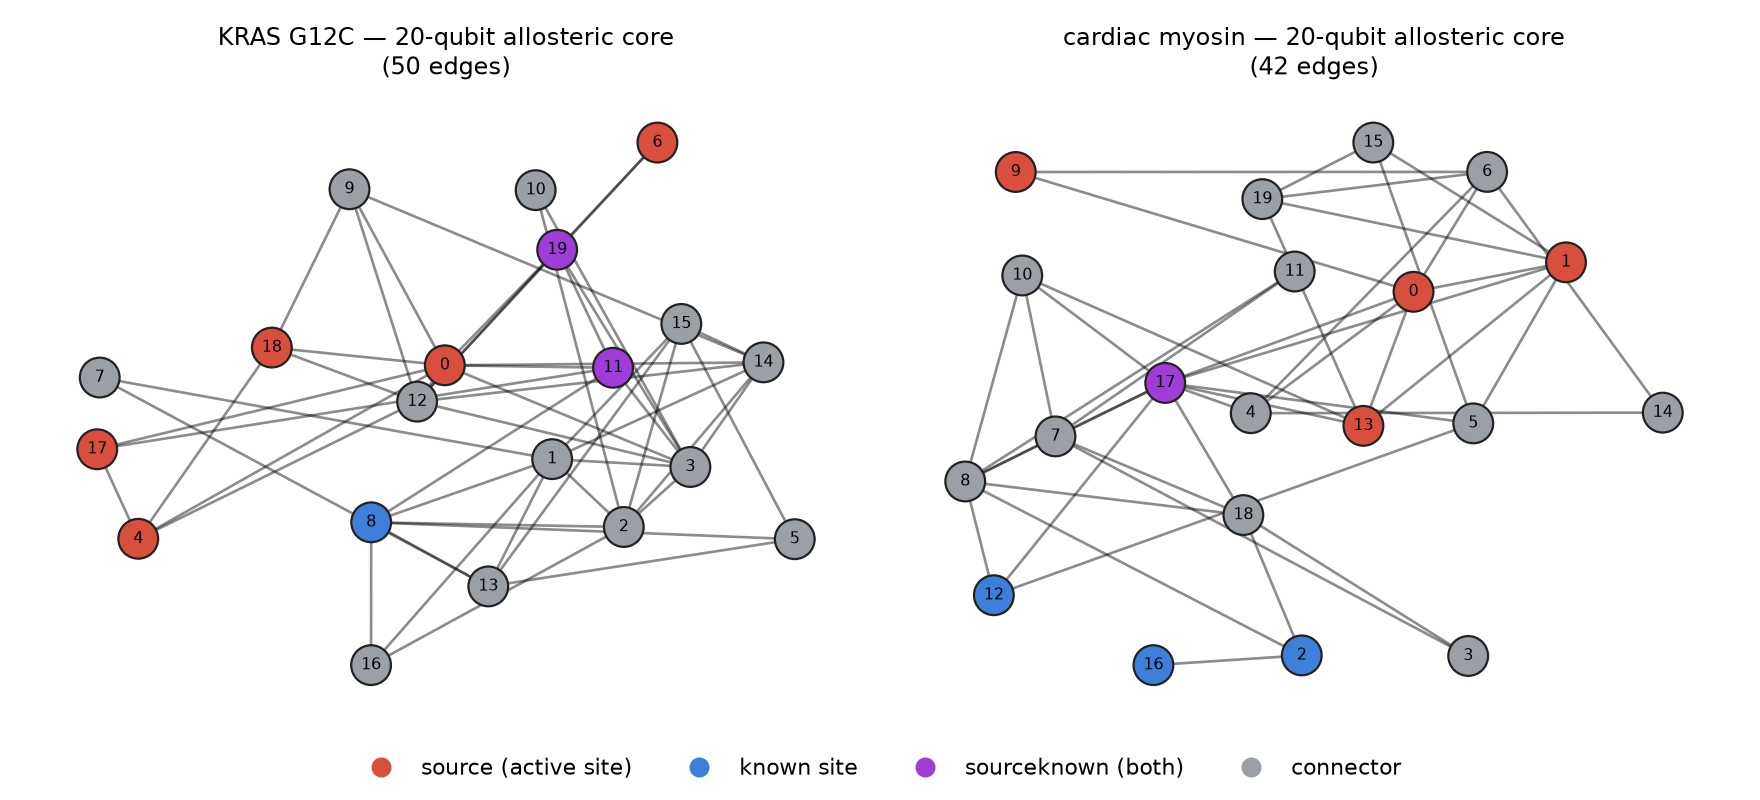
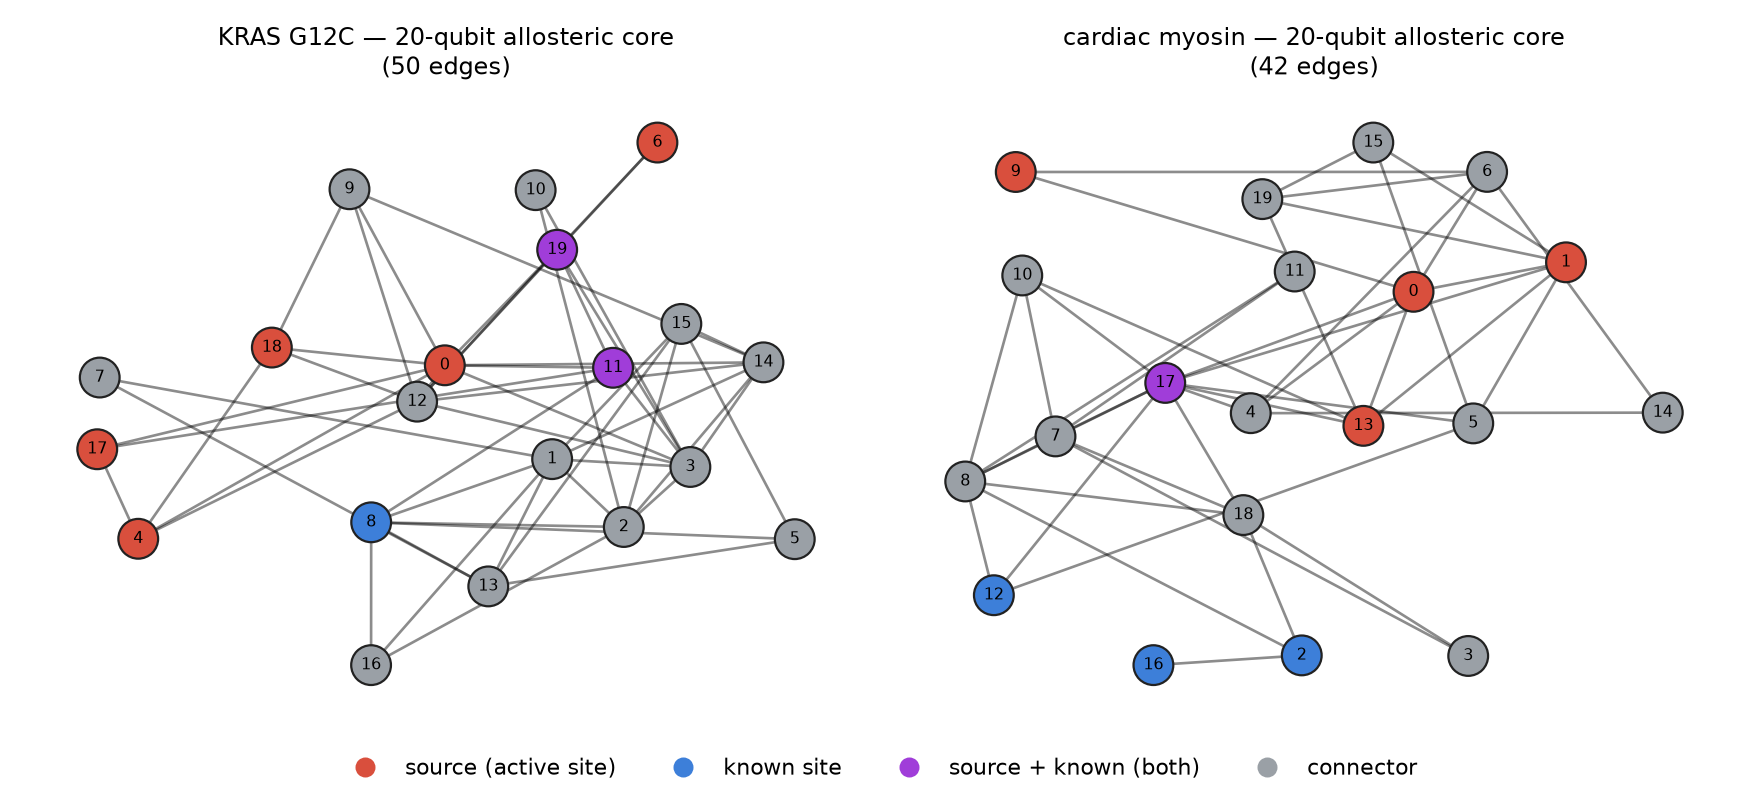
quantum page: verifiable receipt links + disclosure-consistency pass
Every job ID in the receipts table now deep-links to its committed raw
engine response on GitHub - the file itself carries the ID, so the link
is the verification. A "how to verify" disclosure shows the auth-gated
jobs/status endpoint with a copy button (reuses the site copy-btn
pattern) instead of linking a URL that would 401 for visitors.

Findings split headline (3) from technical internals (3) behind a
details fold, matching the site progressive-disclosure discipline.
Widget readout note gets aria-live for assistive tech; fig1 legend
label fixed ("source + known" not raw "sourceknown" token).

Generated with [Devin](https://devin.ai)

Changed region(s): [[0.1875, 0.9375, 0.8125, 0.9688]]

diff --git a/frontend/observatory/templates/quantum.html b/frontend/observatory/templates/quantum.html
@@ -80,7 +80,7 @@
             <span class="q-readout-label">edge agreement</span>
             <span class="q-readout-val" id="q-readout-agree">—</span>
           </div>
-          <div class="q-readout-row q-readout-note" id="q-readout-note">
+          <div class="q-readout-row q-readout-note" id="q-readout-note" aria-live="polite">
             real topology, ideal baseline
           </div>
         </div>
@@ -100,6 +100,14 @@
       <li>{{ f }}</li>
       {% endfor %}
     </ol>
+    <details class="q-details">
+      <summary>Technical detail — what the engine actually prepared</summary>
+      <ol class="q-findings q-findings-detail" start="4">
+        {% for f in detail_findings %}
+        <li>{{ f }}</li>
+        {% endfor %}
+      </ol>
+    </details>
     <figure class="q-fig">
       <img src="{{ root_prefix }}quantum/figs/fig4_real_vs_control.png"
            alt="Bar charts comparing edge correlation magnitude and edge agreement between real protein graphs and a random control, on emulator vs ibm_fez" loading="lazy" decoding="async">
@@ -128,8 +136,9 @@
   <section class="panel">
     <header class="panel-header"><h2>Receipts</h2></header>
     <p class="q-text">Every claim on this page resolves to a submitted job.
-      Moth job IDs query the engine's result endpoint; IBM job IDs are the
-      hardware execution receipts.</p>
+      Each job ID links to the raw engine response committed in the
+      repository — the file itself carries the ID, so the link is the
+      verification.</p>
     <div class="q-receipts-wrap">
       <table class="q-receipts">
         <thead>
@@ -139,22 +148,30 @@
           {% for t in target_rows %}
           <tr>
             <td>{{ t.name }}</td>
-            <td><code>{{ t.moth_qpu }}</code></td>
-            <td><code>{{ t.moth_emu }}</code></td>
-            <td><code>{{ t.ibm_job_id }}</code></td>
+            <td><a class="q-job-link" href="{{ t.qpu_href }}" target="_blank" rel="noopener"><code>{{ t.moth_qpu }}</code></a></td>
+            <td><a class="q-job-link" href="{{ t.emu_href }}" target="_blank" rel="noopener"><code>{{ t.moth_emu }}</code></a></td>
+            <td><a class="q-job-link" href="{{ t.qpu_href }}" target="_blank" rel="noopener"><code>{{ t.ibm_job_id }}</code></a></td>
           </tr>
           {% endfor %}
           {% if control %}
           <tr>
             <td>random control</td>
-            <td><code>{{ control.moth_jobs.qpu }}</code></td>
-            <td><code>{{ control.moth_jobs.emu }}</code></td>
-            <td><code>{{ control.ibm_job_id }}</code></td>
+            <td><a class="q-job-link" href="{{ control.qpu_href }}" target="_blank" rel="noopener"><code>{{ control.moth_jobs.qpu }}</code></a></td>
+            <td><a class="q-job-link" href="{{ control.emu_href }}" target="_blank" rel="noopener"><code>{{ control.moth_jobs.emu }}</code></a></td>
+            <td><a class="q-job-link" href="{{ control.qpu_href }}" target="_blank" rel="noopener"><code>{{ control.ibm_job_id }}</code></a></td>
           </tr>
           {% endif %}
         </tbody>
       </table>
     </div>
+    <details class="q-details">
+      <summary>How to verify independently</summary>
+      <p class="q-text q-verify">With any Moth API key, the platform replays the
+        record server-side:</p>
+      <pre class="q-verify-cmd" id="q-verify-cmd">curl -H "Authorization: Bearer $MOTH_API_KEY" \
+  https://api.mothquantum.com/api/v1/jobs/252b239d-30c6-4400-bf45-7f78002993a6/status</pre>
+      <button class="copy-btn q-verify-copy" type="button" data-copy="#q-verify-cmd" data-copy-label="copy">copy</button>
+    </details>
     <p class="q-subgraph-note">{% for t in target_rows %}{{ t.name }}: {{ t.subgraph }}.{% if not loop.last %}<br>{% endif %}{% endfor %}</p>
   </section>
 

diff --git a/frontend/static/style.css b/frontend/static/style.css
@@ -3338,3 +3338,30 @@ a.switcher-link:hover {
     width: 100%;
   }
 }
+
+.q-job-link {
+  color: inherit;
+  text-decoration: none;
+  border-bottom: 1px dotted var(--accent);
+}
+
+.q-job-link:hover {
+  color: var(--accent);
+}
+
+.q-verify-cmd {
+  font-family: var(--mono);
+  font-size: 0.72rem;
+  background: var(--bg-elevated);
+  border: 1px solid var(--line);
+  border-radius: var(--radius);
+  padding: 0.75rem 1rem;
+  overflow-x: auto;
+  white-space: pre;
+  max-width: 640px;
+  margin: 0 0 0.5rem;
+}
+
+.q-findings-detail {
+  color: var(--muted);
+}

diff --git a/frontend/observatory/render.py b/frontend/observatory/render.py
@@ -1180,21 +1180,41 @@ def render_quantum(
     if summary_path.is_file():
         summary = json.loads(summary_path.read_text(encoding="utf-8"))
 
+    repo_blob = "https://github.com/udirobert/kytos/blob/main"
+    c008_rel = "experiments/cleveland/c008-moth-qpu-tomography"
+
+    def _receipt(file_key: str) -> str:
+        return f"{repo_blob}/{c008_rel}/metrics/results/{file_key}.json"
+
     targets = facts.get("targets") or {}
     target_rows = []
-    for key in ("kras_g12c", "cardiac_myosin"):
+    for key, label, file_key in (
+        ("kras_g12c", "KRAS G12C", "kras"),
+        ("cardiac_myosin", "cardiac myosin", "myosin"),
+    ):
         t = targets.get(key) or {}
-        name = "KRAS G12C" if "kras" in key else "cardiac myosin"
         target_rows.append(
             {
-                "name": name,
+                "name": label,
                 "subgraph": str(t.get("subgraph") or ""),
                 "ibm_job_id": str(t.get("ibm_job_id") or ""),
                 "moth_qpu": str((t.get("moth_job_ids") or {}).get("qpu") or ""),
                 "moth_emu": str((t.get("moth_job_ids") or {}).get("emu") or ""),
+                "qpu_href": _receipt(f"{file_key}_qpu"),
+                "emu_href": _receipt(f"{file_key}_emu"),
             }
         )
     ctrl = summary.get("random_control") or {}
+    if ctrl:
+        ctrl = dict(ctrl)
+        ctrl["qpu_href"] = _receipt("ctrl_qpu")
+        ctrl["emu_href"] = _receipt("ctrl_emu")
+
+    # Headline findings vs technical depth — same progressive-disclosure
+    # discipline as the rest of the site: story first, internals behind a fold.
+    all_findings = [str(f) for f in (facts.get("findings") or [])]
+    headline_findings = all_findings[:2] + all_findings[5:]
+    detail_findings = all_findings[2:5]
 
     graphs_json = _quantum_graph_widget_data(c008)
 
@@ -1215,7 +1235,8 @@ def render_quantum(
         "js_version": js_version,
         "nav": _nav("quantum", runs, root_prefix=root_prefix),
         "headline": str(facts.get("headline") or ""),
-        "findings": [str(f) for f in (facts.get("findings") or [])],
+        "findings": headline_findings,
+        "detail_findings": detail_findings,
         "caveats": [str(c) for c in (facts.get("honest_caveats") or [])],
         "target_rows": target_rows,
         "control": ctrl,

diff --git a/experiments/cleveland/c008-moth-qpu-tomography/reproduce/figures.py b/experiments/cleveland/c008-moth-qpu-tomography/reproduce/figures.py
@@ -64,7 +64,7 @@ for ax, (name, t) in zip(axes, TARGETS):
 legend_items = [
     ("source (active site)", ROLE_COLORS["source"]),
     ("known site", ROLE_COLORS["known"]),
-    ("sourceknown (both)", ROLE_COLORS["sourceknown"]),
+    ("source + known (both)", ROLE_COLORS["sourceknown"]),
     ("connector", ROLE_COLORS[""]),
 ]
 handles = [
